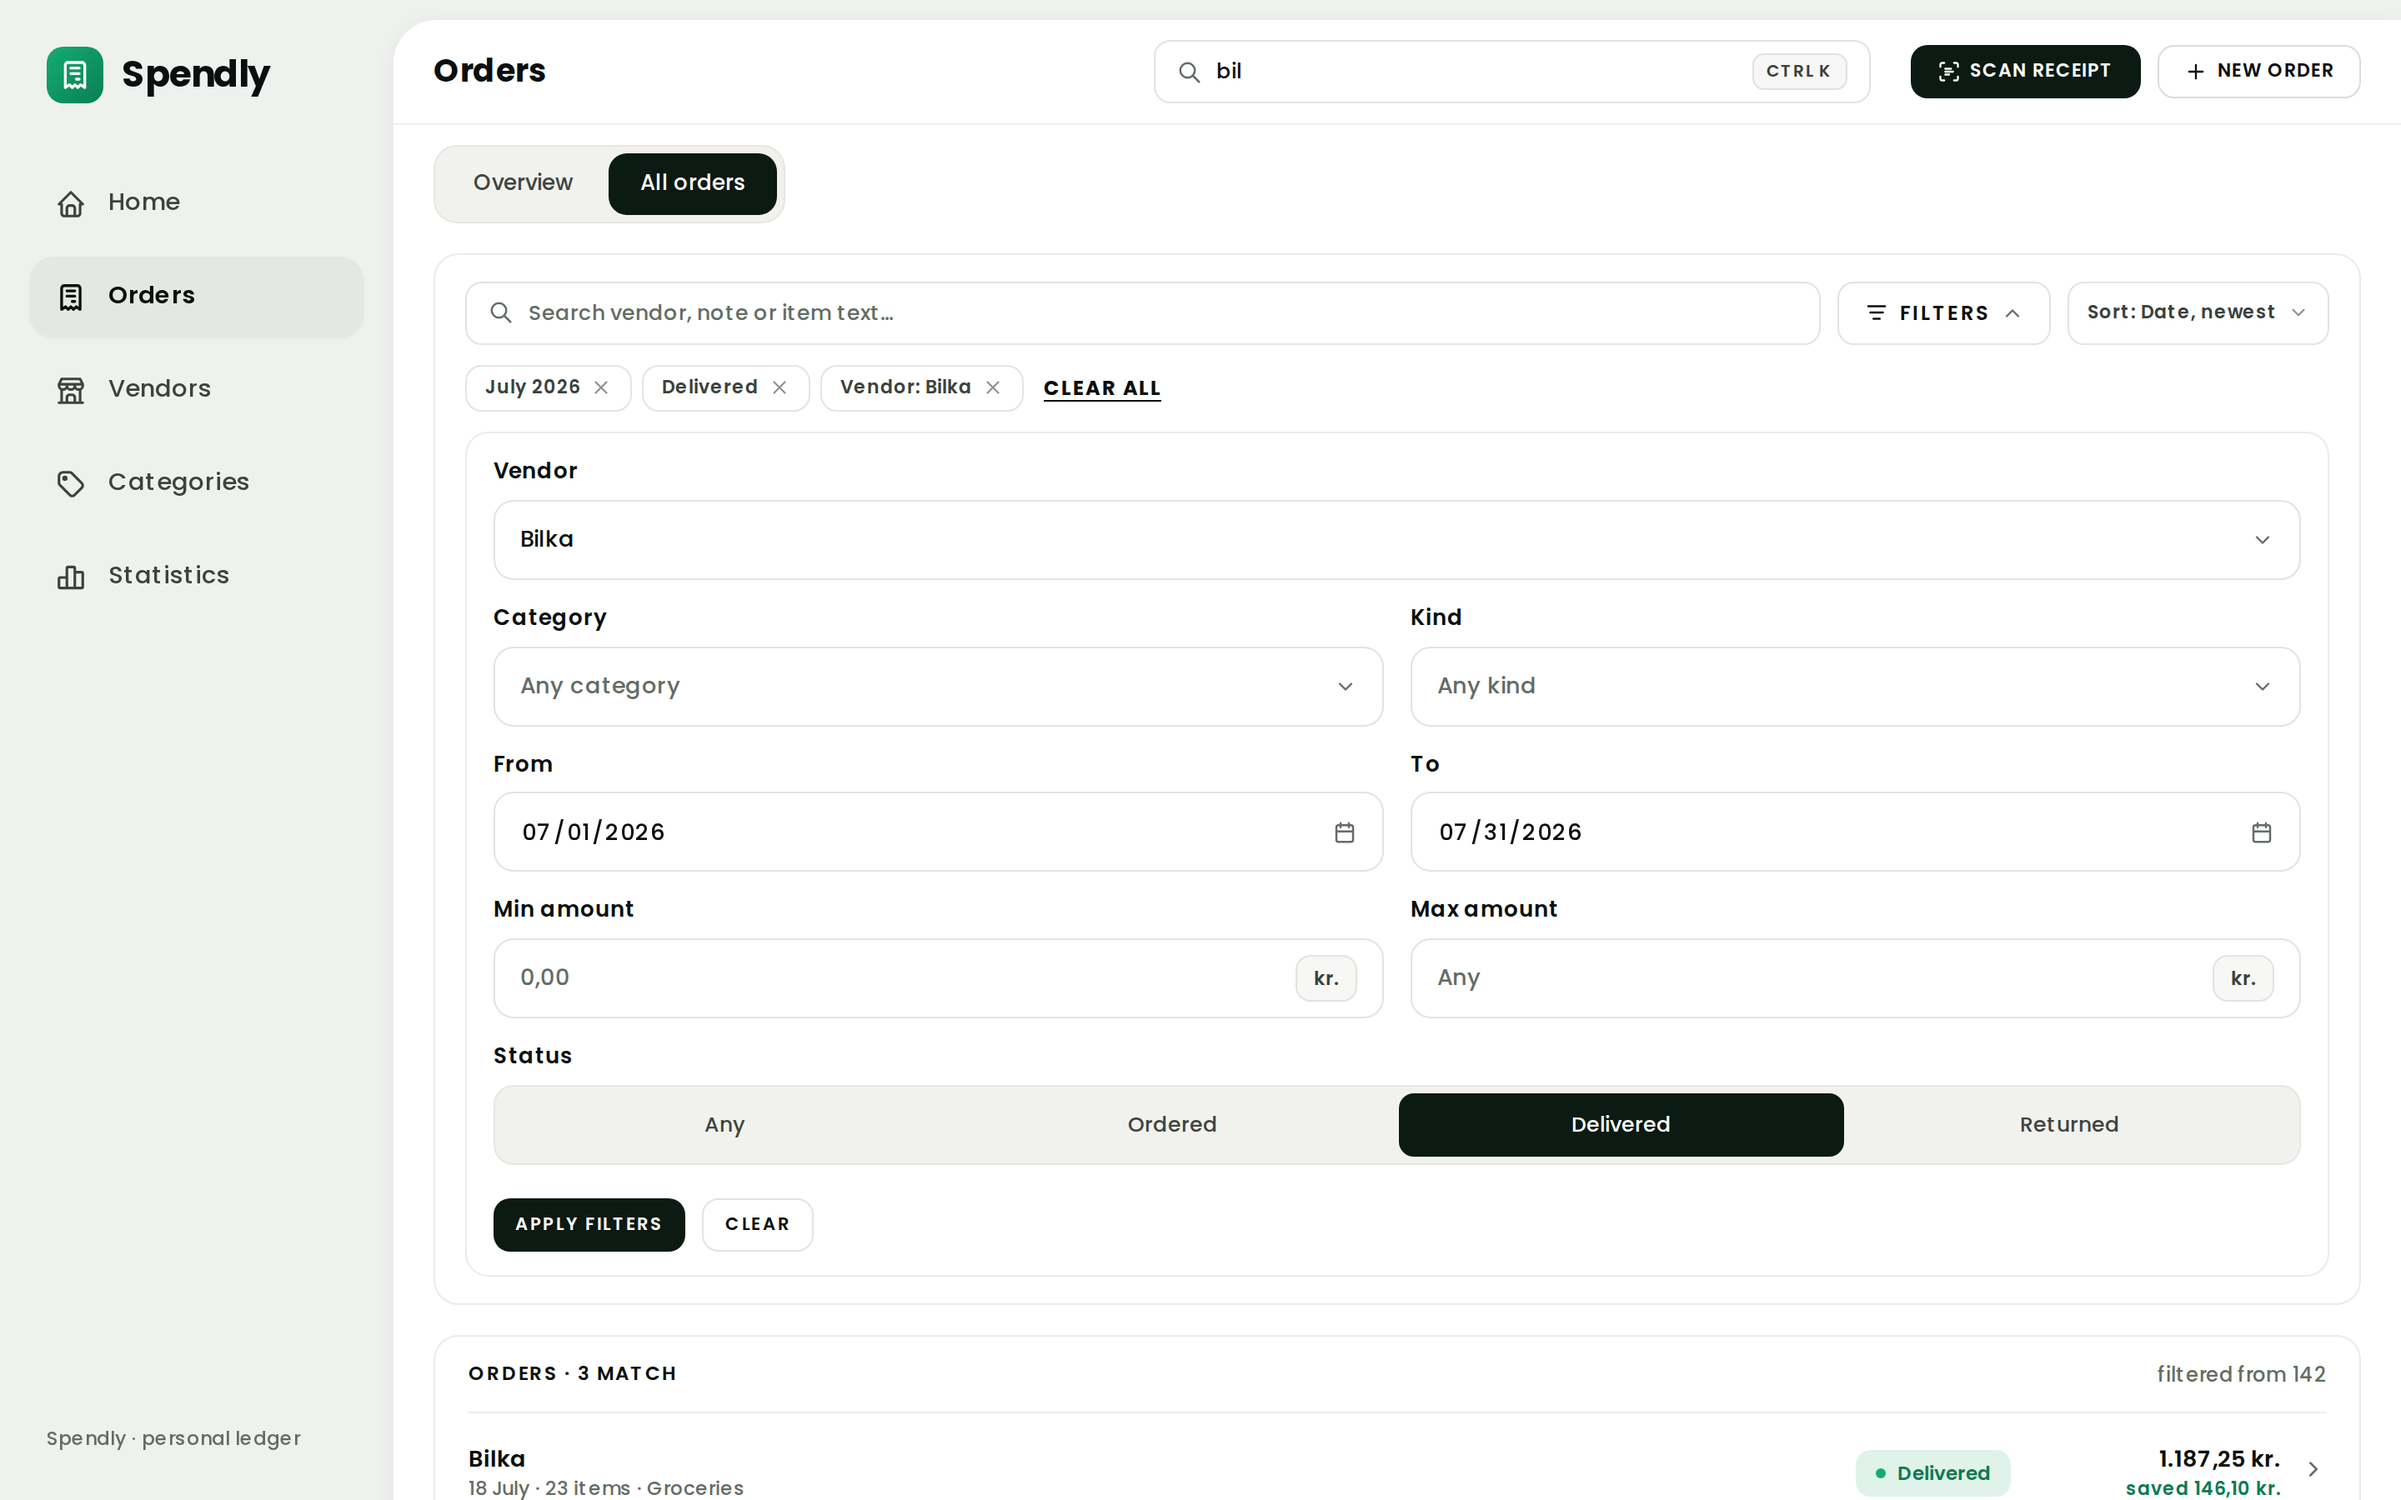
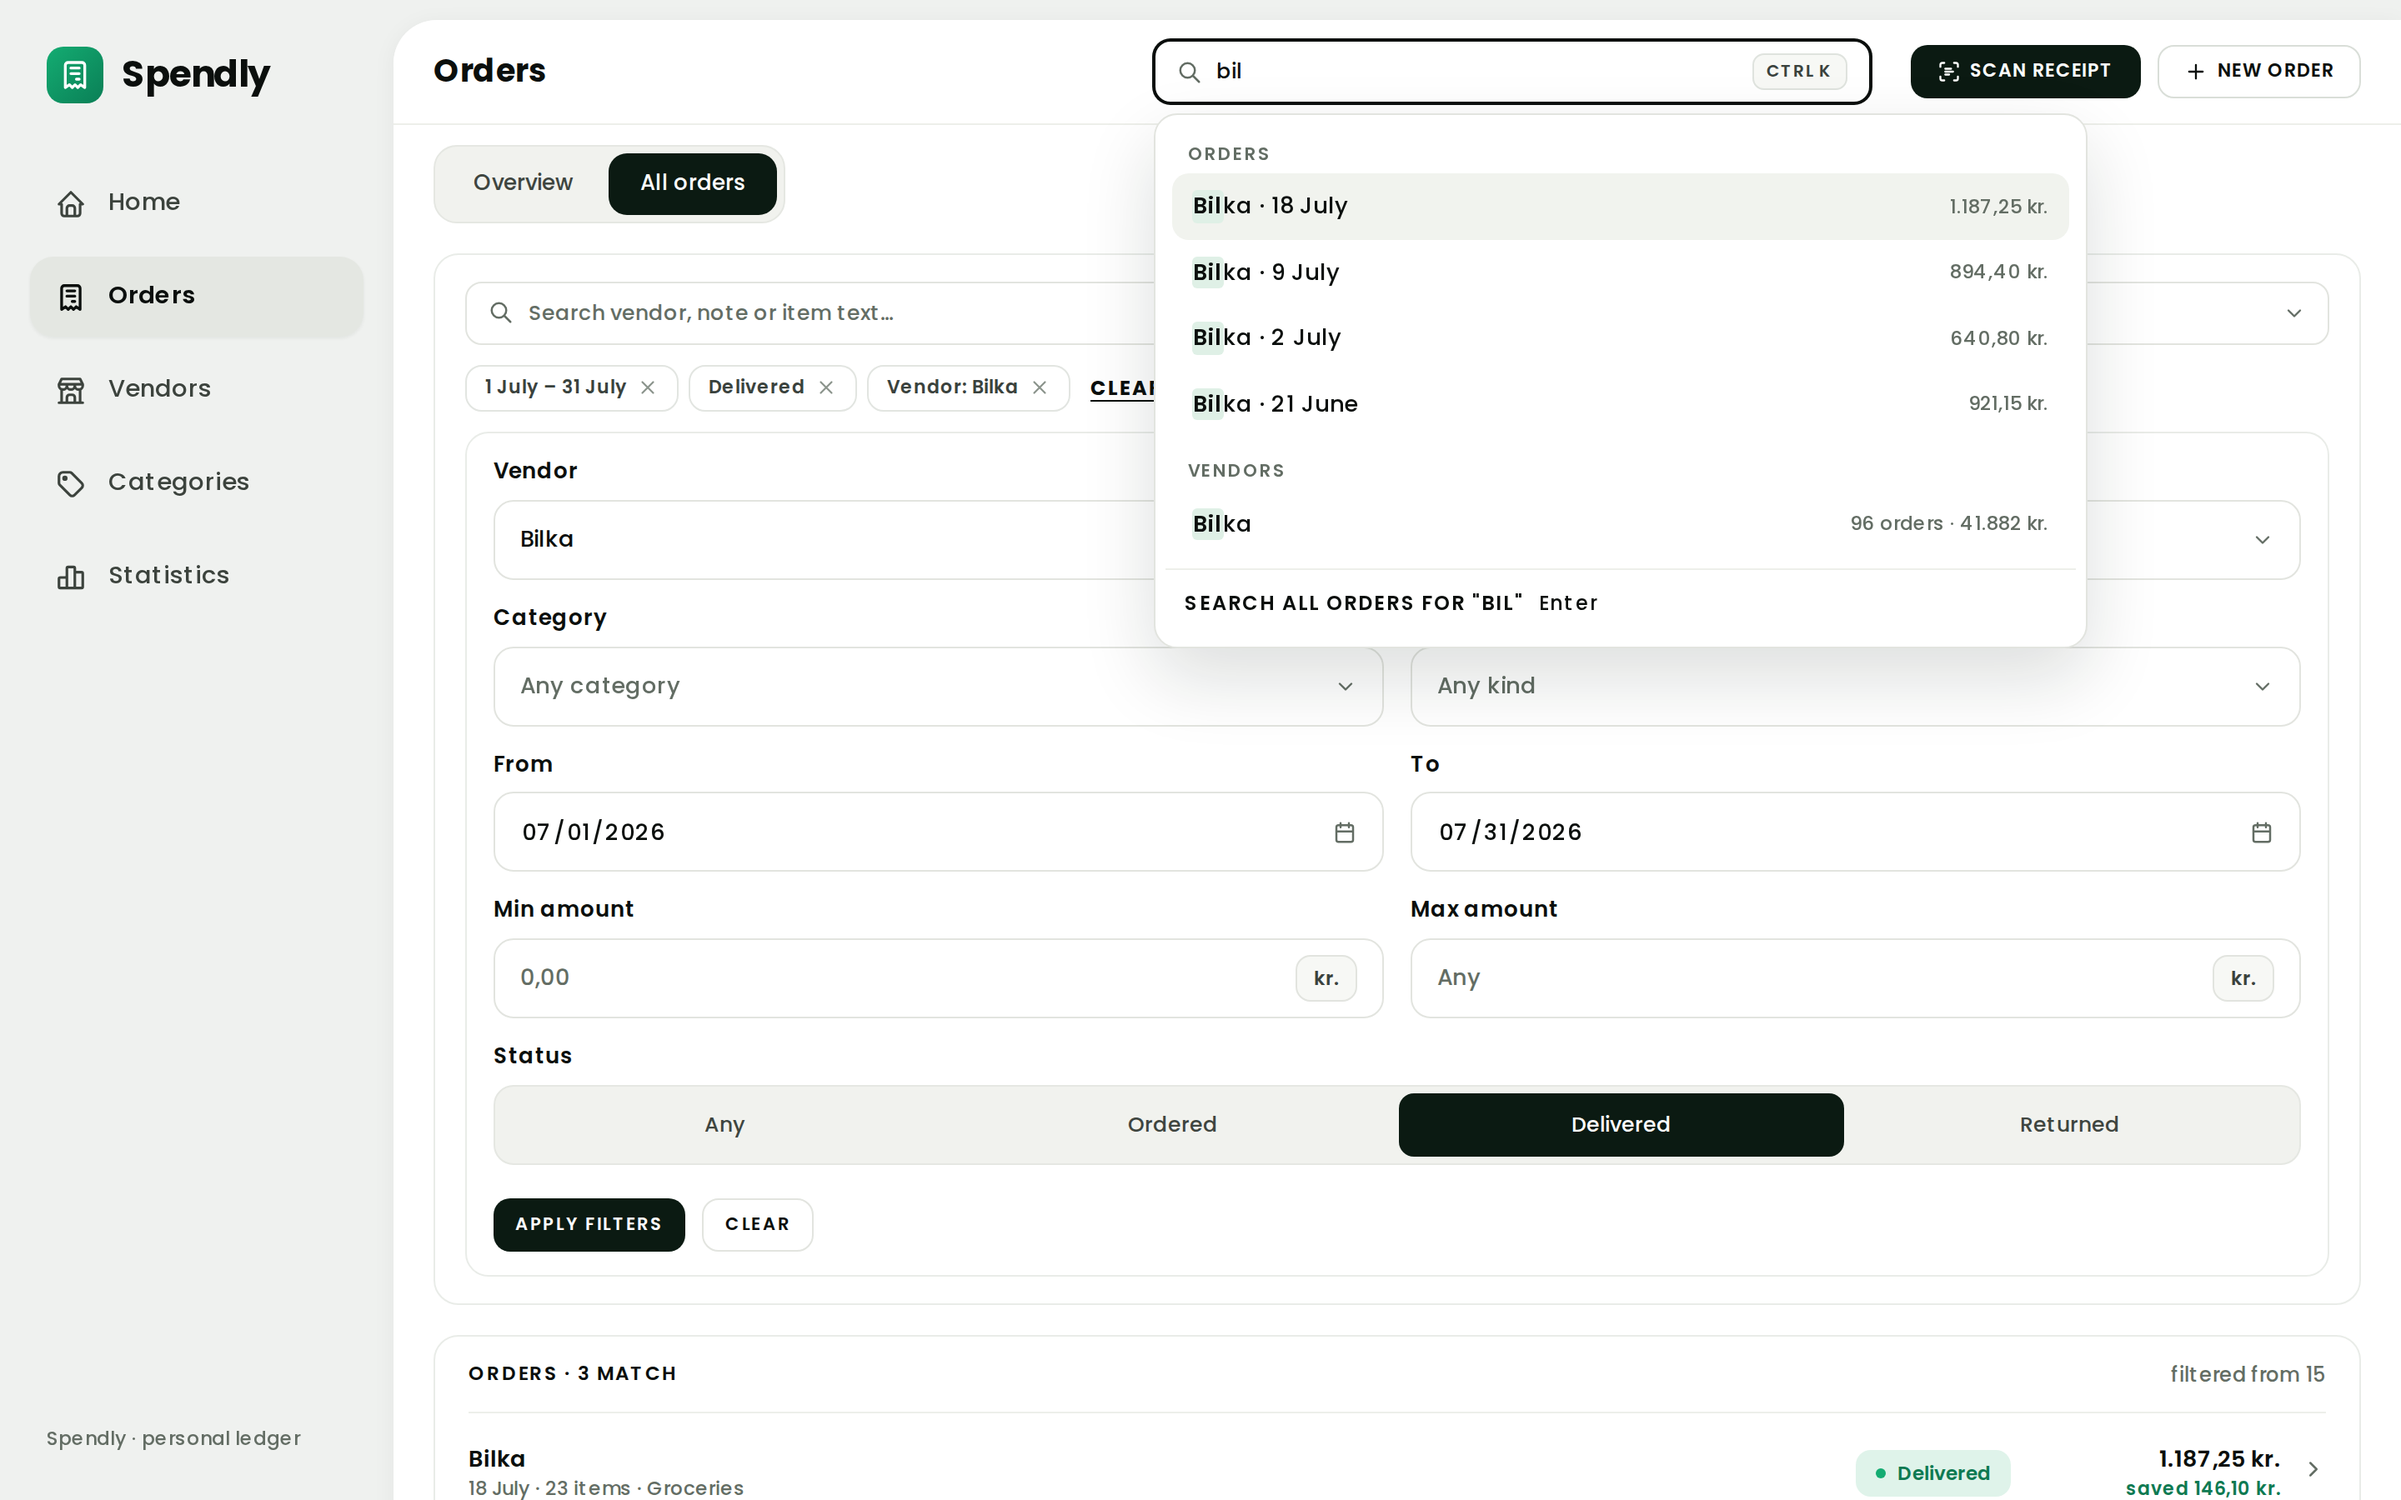
Regenerate home.png and all-orders.png from the app; update CLAUDE.md
The last two committed shots still came from spendly.html, not react/ --
home.png differed from the app by 55,595 of 5,184,000 pixels (the donut,
the bar chart, the date-dependent figures) and all-orders.png by 440,582
once actually driven into the state it holds (FILTERS open, filtered to
?vendor=bilka&status=Delivered&from=2026-07-01&to=2026-07-31, the global
finder open with "bil" typed in). Both re-rendered from the running app
at 1440x900 dSF2, reproduced twice in a row at 0 differing pixels.
phone.png was already the app's and is untouched.

CLAUDE.md updated to match: the opening paragraph and the environment,
screenshots and uniformity sections no longer describe spendly.html as
an active sync/verification target, and a dedicated section replaces the
old editing rules for it with a note that it is frozen and those rules
are git history now, not standing instructions.

Claude-Session: https://claude.ai/code/session_01NcUimnXVLTLvkr4XvsP48W

diff --git a/CLAUDE.md b/CLAUDE.md
@@ -4,12 +4,10 @@ Spendly is an application and its documentation. **`react/` is the source.** The
 what a change is made in and what a claim is measured against: `npm install && npm run dev` in that
 directory, and the pages are real ones with the controls wired.
 
-`spendly.html` is the prototype the design system was drawn in, and it is a copy now. Its `<style>`
-block is written from `react/src/styles/spendly.css` by `npm run css:sync`, and `npm run css:check`
-fails when the two have drifted — so a rule typed into the HTML is a rule the next sync deletes. Edit
-the app; sync afterwards. The prototype is still worth rendering for what it is good at — one file,
-no build, every page in the DOM at once — but it draws some controls where the app builds them, and
-where the two disagree the app is right by definition.
+`spendly.html` is the prototype the design system was first drawn in. It is no longer synced or
+checked against `react/src/styles/app.css`, and no fix needs to reach it — it stays in the repo only
+as a frozen, historical artifact, not a document this file has rules about. Where anything below
+still mentions it, that is history: react/ is the one place the system is built.
 
 `README.md` is the design system the app implements; `docs/` holds the screenshots that document shows
 and the defect log its rules link to.
@@ -109,17 +107,16 @@ box, not about any change.
   repo, however irrelevant. Split it: `install` the engine, then `install-deps`, so an apt problem
   still leaves it on disk and a launch, not apt's exit code, decides whether it is usable.
 - **That build is a valid pixel baseline.** 141.0.7390.37 under the 1.56.1 bundle is the pair the
-  screenshot section names as rendering `docs/` at 0 of 5,184,000, so this container is the good
-  case rather than the text-rasterisation case -- still run the unchanged file against `docs/` once
-  to confirm it before trusting a diff. Confirmed on 2026-07-29: 0 of 5,184,000 on `home.png` and
-  `all-orders.png`, 0 of 1,035,840 on `phone.png`. **`all-orders.png` holds three pieces of state at
-  once**, and each one has to be driven: the FILTERS panel is open, which is no longer the state the
-  page loads in; the list is filtered to July 2026, Delivered and Vendor: Bilka, 3 of 142 matching;
-  and the global finder has `bil` typed into it. Render it closed and the confirmation run comes back
-  484,879 of 5,184,000 on a file nobody has touched, which reads exactly like the rasterisation case
-  it is not -- and a run that opens the panel but leaves the list and the finder alone comes back
-  611,948, which reads the same way and is the same mistake two thirds fixed. A floor measured in the wrong state is not a floor; drive each shot into the state
-  it holds (`docs/defects.md` says which) before believing the number, in either direction.
+  screenshot section names as rendering `docs/` at 0 of 5,184,000 from the app, so this container is
+  the good case rather than the text-rasterisation case -- still run the unchanged app against
+  `docs/` once to confirm it before trusting a diff. Confirmed on 2026-07-31, rendering the app: 0 of
+  5,184,000 on `home.png` and `all-orders.png`, 0 of 1,035,840 on `phone.png`, each reproduced twice
+  in a row. **`all-orders.png` holds three pieces of state at once**, and each one has to be driven:
+  the FILTERS panel is open, which is no longer the state the page loads in; the list is filtered to
+  `?vendor=bilka&status=Delivered&from=2026-07-01&to=2026-07-31`, 3 matching; and the global finder
+  (`input[aria-label="Search everything"]`) has `bil` typed into it, open. Render it closed or drop
+  any one of the three and the comparison reads like a rasterisation-floor mismatch and is not one --
+  drive each shot into the state it holds before believing the number, in either direction.
 - **If a browser download 403s, it is egress policy and not the CDN.** `playwright install` fails
   with a bare `Download failure, code=1`, which names no host and no cause; guessing one from it is
   guessing. `curl -sS "$HTTPS_PROXY/__agentproxy/status"` lists `recentRelayFailures` with the host
@@ -427,26 +424,14 @@ The shots in `docs/` are rendered from the running app and never cropped by hand
 Chromium at 1440x900 for the two desktop ones, an iPhone 13 descriptor for the phone one, all at
 `deviceScaleFactor: 2` and driven by the same harness used for measuring.
 
-**Only one of the three has been re-rendered from the app so far, and the other two numbers are not
-a floor.** The app reproduces `phone.png` exactly -- 0 differing pixels of 1,035,840 with the change
-under test reverted -- which is what made it safe to regenerate that file from the app. The desktop
-pair was not reproduced in that pass: 55,595 of 5,184,000 against `home.png` and 611,948 against
-`all-orders.png`, both identical to the pixel with the change reverted, so none of it is the change
-and none of it is text rasterisation either. `all-orders.png` holds a state the harness has to drive
-it into and that one did not -- see the bullet above for what the state actually is. `home.png`
-differs in the donut, the bar chart and the figures that follow today's date: a settle loop watching
-bounding rects does not catch a path that redraws inside a box that never moves, and the shot was
-taken on another day. Drive the state and freeze the drawing before treating either as a baseline.
-
-**That 55,595 is the app, and the prototype is what those two desktop shots were rendered from.** The
-two numbers this file carries for `home.png` -- 0 in the environment bullet, 55,595 here -- are both
-right and are about different files: rendering the *prototype* at 1440x900 dSF2 reproduces the
-committed `home.png` at **0 of 5,184,000**, and rendering the app reproduces it at 55,595. So the
-55,595 is not drift, a stale day or a rasteriser; it is the app and the prototype drawing the same
-page slightly differently, in the donut, the bar chart and the figures that follow the date. Until the
-desktop pair is re-rendered from the app -- which is a change of its own, and a 55,595-pixel one --
-regenerate those two from the prototype, so the committed file moves by the edit and nothing else, and
-name which file you rendered from. `phone.png` is the app's, and stays the app's.
+**All three are the app's now.** `phone.png` was regenerated from the app first; `home.png` and
+`all-orders.png` used to be rendered from the prototype instead -- 55,595 of 5,184,000 against the
+app for `home.png`, 440,582 for `all-orders.png` once the app was actually driven into the state the
+file holds (see the environment bullet above), neither number the change under test, both the app
+and the prototype drawing the same pages slightly differently. Both were re-rendered from the app on
+2026-07-31, reproduced twice in a row at 0 differing pixels, and `spendly.html` is no longer a
+baseline for either: react/ is the one place the system is built, so a shot is the app's render or
+it is out of date, with nothing left to reconcile against a second file.
 
 The phone shot needs that descriptor rather than a 390px window. `pointer: coarse` is what the iOS
 rules key off, and a plain narrow viewport does not match it — the shot would show a layout no phone
@@ -478,7 +463,7 @@ Before adding a variant, grep for the pattern and match the tally, not the one n
 `README` states this as a principle; in practice it means counting first —
 
 ```bash
-grep -c 'the-pattern' spendly.html    # then match the majority, or change all of them
+grep -c 'the-pattern' react/src/styles/app.css    # then match the majority, or change all of them
 ```
 
 Four date fields existed and only three carried the glyph, which is exactly how the fourth kept a bare
@@ -521,27 +506,14 @@ nothing but the walk's style fields could have caught it. Read the match count b
 (`document.querySelectorAll(sel).length`) and require the number you meant, before and after. A rule
 that renders plausibly is not a rule that matched what you aimed at.
 
-## Changing spendly.html
+## spendly.html is frozen
 
-- **The single file is a constraint, not an accident.** No dependency, no build step, no network
-  request, no external asset. A fix that needs any of those is the wrong fix.
-- **A comment is a tripwire, not documentation.** The README holds the argument; the comment exists
-  because nobody greps a spec before deleting what looks like a magic number, and this file is full of
-  values that look like mistakes — `calc(100% + 56px)`, `min-height:38px`, the iOS rule that computes
-  16px and scales it back. State the constraint, what breaks without it, and the section that explains
-  it. Three or four lines. Re-arguing the case inline gives one rule two homes and they drift; a
-  restatement of the CSS is noise either way.
-- **Match the surrounding idiom** — naming, comment voice, `--` for dashes inside CSS comments, the
-  house habit of stating the defect before the rule.
-- **Tabs indent, spaces align.** One tab per level of nesting, in markup, CSS and script alike. The
-  only spaces at the start of a line are the ones holding a comment's continuation under the text it
-  hangs from — `<!-- ` is five columns and `/* ` is three, and a tab there would only line up at one
-  tab width. Never mix the two in the same run: tabs first, then any alignment.
-- **Reformatting keeps its pixel diff, and half of it is free.** The tab conversion was accepted on
-  0 differing pixels of 5,184,000 rather than on inspection, and a whitespace-only change is exactly
-  the shape where "it obviously changed nothing" is a guess. Expanding the leading tabs back should
-  reproduce the previous file byte for byte -- that half needs no browser, so run it as you go. The
-  pixel diff goes in the pass at the end.
+It no longer gets edited: react/ is the one place the design system is built, and there is no sync
+step left to carry a fix anywhere else. The constraints this section used to state — one file, no
+dependency, no build step, no network request, no external asset, tabs indenting and spaces only
+aligning a comment's continuation — were about editing it directly, which nothing does now. They
+are git history (`git log -- spendly.html`) if the file is ever un-frozen; they are not rules to
+follow in the meantime, since following them would mean editing a file this repo has decided not to.
 
 ## Reporting
 
